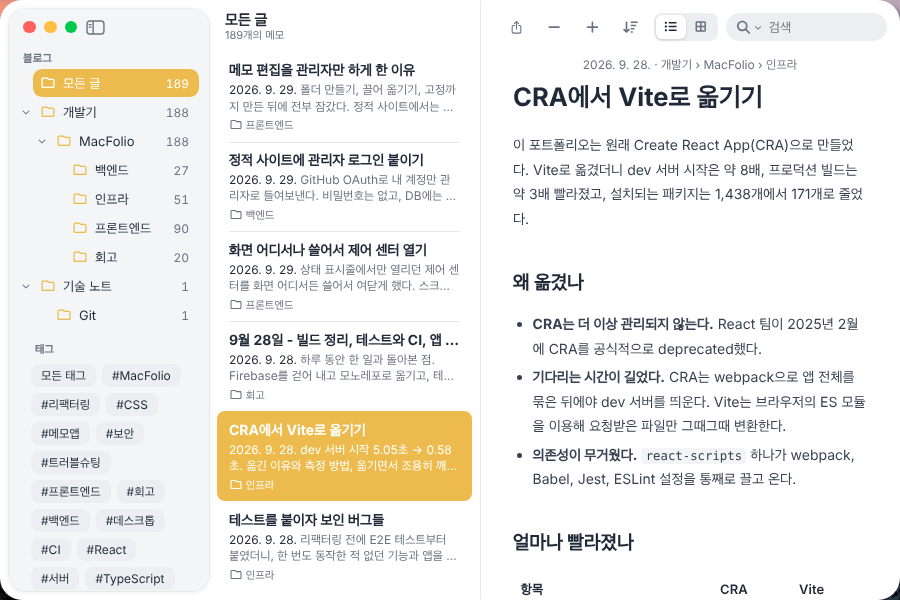
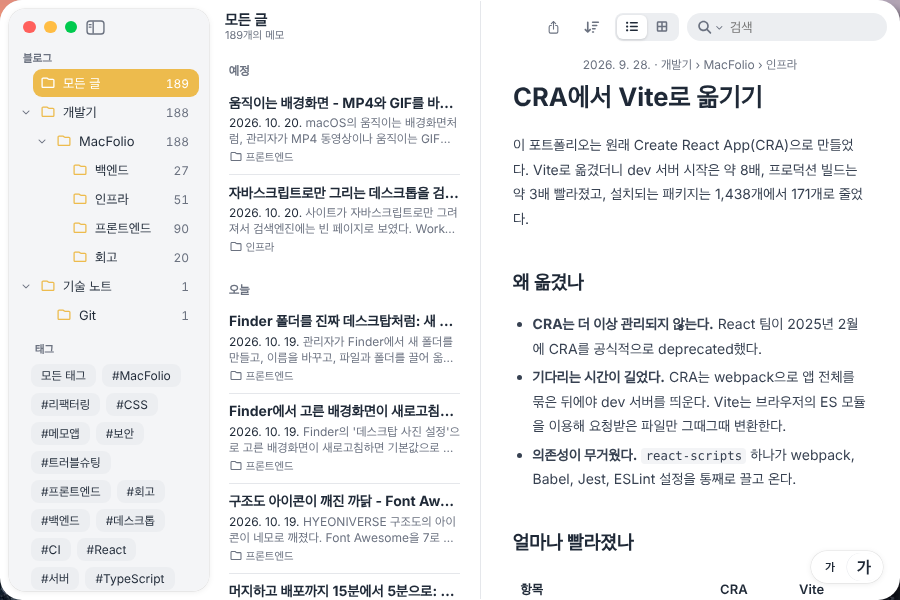
feat(memo): 글자 크기 조절을 본문 오른쪽 아래 떠 있는 알약으로

diff --git a/apps/react/src/apps/memo/Memo.tsx b/apps/react/src/apps/memo/Memo.tsx
@@ -478,8 +478,8 @@ const Memo: React.FC = () => {
 	/** 편집기를 보이는 중인지 (관리자, 최근 삭제·잠금이 아닌 글이나 새 메모. 읽기 화면으로 보는 중이면 아니다) */
 	const writing = editing && !inTrash && (newDraft !== null || (selected !== null && !selected.locked && !readerView));
 
-	/** 읽기 화면 글자 크기: − / + (편집 화면에서는 빼서 서식 도구 자리를 비운다) */
-	const textSizeButtons = (className: string) => {
+	/** 읽기 화면 글자 크기: 본문 오른쪽 아래에 떠 있는 가− / 가+ 알약 (편집기를 보이는 중에는 뺀다) */
+	const textSizeControl = () => {
 		const change = (step: 1 | -1) => {
 			const next = stepTextScale(textScale, step);
 			setTextScale(next);
@@ -488,22 +488,30 @@ const Memo: React.FC = () => {
 		return (
 			selected &&
 			!writing && (
-				<>
-					<IconButton
-						className={`memo-text-size ${className}`}
-						label="글자 작게"
+				<div className="memo-text-size" role="group" aria-label="글자 크기">
+					<button
+						type="button"
+						aria-label="글자 작게"
+						title="글자 작게"
 						disabled={textScale === TEXT_SCALES[0]}
 						onClick={() => change(-1)}
-						icon="fa-solid fa-minus"
-					/>
-					<IconButton
-						className={`memo-text-size ${className}`}
-						label="글자 크게"
+					>
+						<span className="small" aria-hidden="true">
+							가
+						</span>
+					</button>
+					<button
+						type="button"
+						aria-label="글자 크게"
+						title="글자 크게"
 						disabled={textScale === TEXT_SCALES.at(-1)}
 						onClick={() => change(1)}
-						icon="fa-solid fa-plus"
-					/>
-				</>
+					>
+						<span className="large" aria-hidden="true">
+							가
+						</span>
+					</button>
+				</div>
 			)
 		);
 	};
@@ -791,7 +799,6 @@ const Memo: React.FC = () => {
 									{pinButton('')}
 									{/* 편집 중에는 서식 도구로 도구 막대가 꽉 차서 공유는 ••• 메뉴에만 */}
 									{!editing && shareButton('')}
-									{textSizeButtons('')}
 									{/* 정렬·보기 방식은 늘 검색 칸 왼쪽 (사이드바를 여닫아도 움직이지 않는다) */}
 									{sortMenu()}
 									<ViewSwitch view={view} onChange={changeView} />
@@ -834,7 +841,6 @@ const Memo: React.FC = () => {
 								{authorTools('compact-only')}
 								{pinButton('compact-only')}
 								{shareButton('compact-only')}
-								{textSizeButtons('compact-only')}
 							</div>
 							{writing && (
 								// 관리자: 따로 편집 버튼 없이 바로 고친다 (macOS 메모처럼)
@@ -880,6 +886,7 @@ const Memo: React.FC = () => {
 								</div>
 							)}
 						</div>
+						{textSizeControl()}
 					</article>
 
 					{revisionsOpen &&

diff --git a/apps/react/src/apps/memo/styles/markdown.css b/apps/react/src/apps/memo/styles/markdown.css
@@ -488,3 +488,57 @@
 .memo-text-scale {
 	zoom: var(--memo-text-scale, 1);
 }
+
+/* 글자 크기 알약: 본문 칸 오른쪽 아래에 떠 있다 (본문을 넘겨도 그 자리) */
+.memo-reader {
+	position: relative;
+}
+
+.memo-text-size {
+	position: absolute;
+	right: 16px;
+	bottom: 16px;
+	z-index: 10;
+	display: flex;
+	padding: 2px;
+	border-radius: var(--radius-full);
+	background-color: var(--memo-bg);
+	box-shadow: var(--memo-panel-shadow);
+	backdrop-filter: blur(12px);
+	-webkit-backdrop-filter: blur(12px);
+}
+
+.memo-text-size button {
+	display: grid;
+	place-items: center;
+	width: 34px;
+	height: 28px;
+	border: none;
+	border-radius: var(--radius-full);
+	background: none;
+	color: var(--memo-text);
+	font-weight: 600;
+	line-height: 1;
+	cursor: pointer;
+}
+
+.memo-text-size button + button {
+	box-shadow: -0.5px 0 0 var(--memo-border);
+}
+
+.memo-text-size button:hover:not(:disabled) {
+	background-color: var(--memo-search-bg);
+}
+
+.memo-text-size button:disabled {
+	opacity: 0.35;
+	cursor: default;
+}
+
+.memo-text-size .small {
+	font-size: 11px;
+}
+
+.memo-text-size .large {
+	font-size: 16px;
+}

diff --git a/apps/react/src/apps/memo/styles/phone-note.css b/apps/react/src/apps/memo/styles/phone-note.css
@@ -184,3 +184,8 @@
 	color: var(--memo-text);
 	font-size: var(--text-title3);
 }
+
+/* 휴대폰: 아래쪽 버튼 줄(새 메모·서식) 위로 올린다 */
+.container.mobile :where(.memo-shell[data-compact]) .memo-text-size {
+	bottom: 74px;
+}
